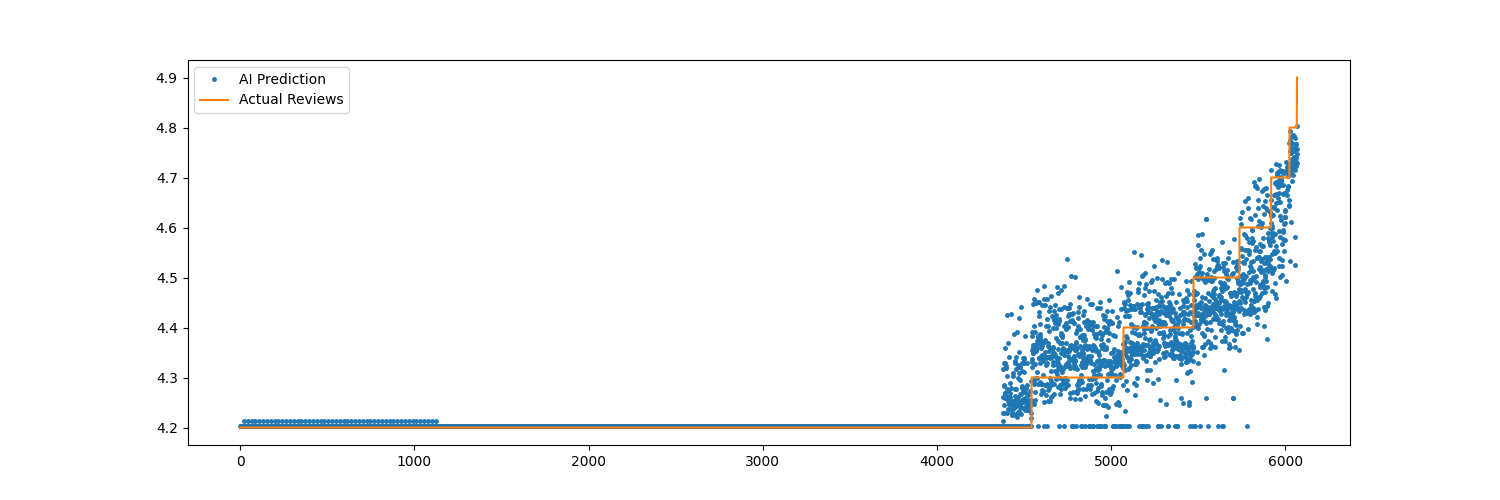
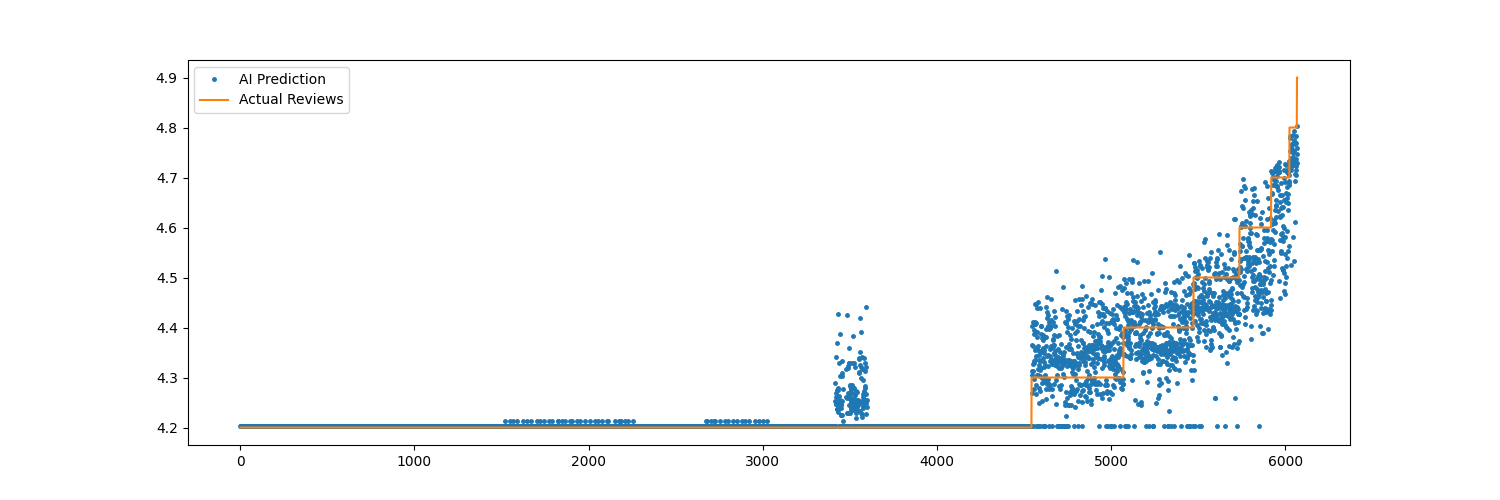
Sorted comparison to show valid information

diff --git a/visualize.py b/visualize.py
@@ -1,3 +1,5 @@
+import pandas as pd
+
 import data_operations
 import numpy as np
 
@@ -25,12 +27,16 @@ def model_comparison(model_path, output_path):
         model = pickle.load(f)
 
     X, y = data_operations.get_data()
-    y = sorted(y.to_numpy())
-    y_predictions = np.flip(model.predict(X))
+    y = y.to_numpy()
+    y_predictions = model.predict(X)
+
+    predicts = pd.DataFrame({'ai': y_predictions, 'reviews': y})
+    predicts = predicts.sort_values(by='reviews')
+    predicts = predicts.reset_index()
 
     plt.figure(figsize=(15, 5))
-    plt.plot(y_predictions, label='AI Prediction', linestyle='', marker='o', markersize=2.5)
-    plt.plot(y, label='Actual Reviews')
+    plt.plot(predicts['ai'], label='AI Prediction', linestyle='', marker='o', markersize=2.5)
+    plt.plot(predicts['reviews'], label='Actual Reviews')
     plt.legend()
     plt.savefig(output_path)
 
